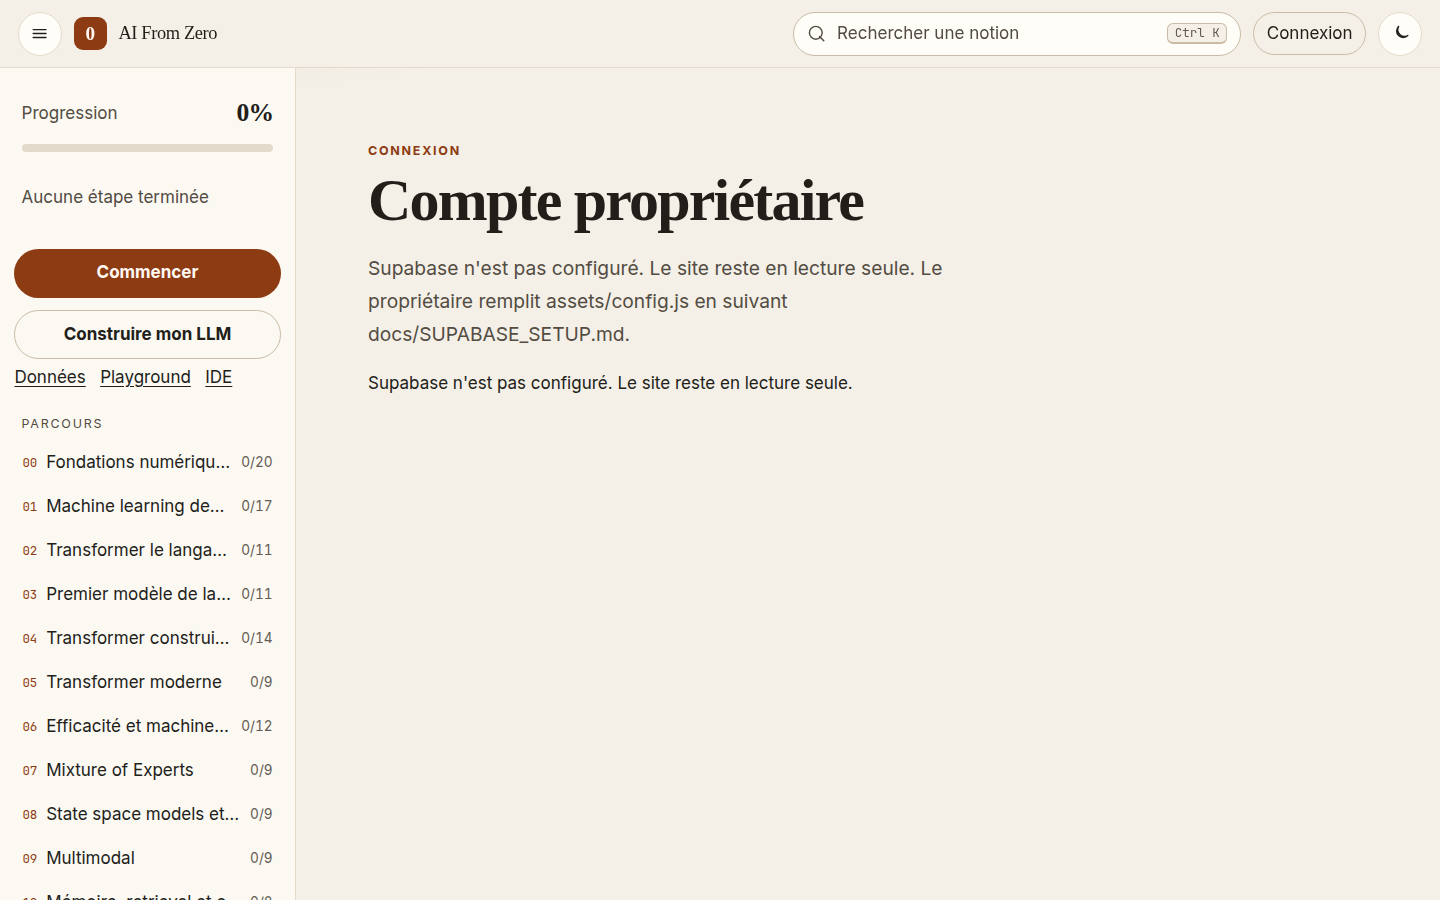
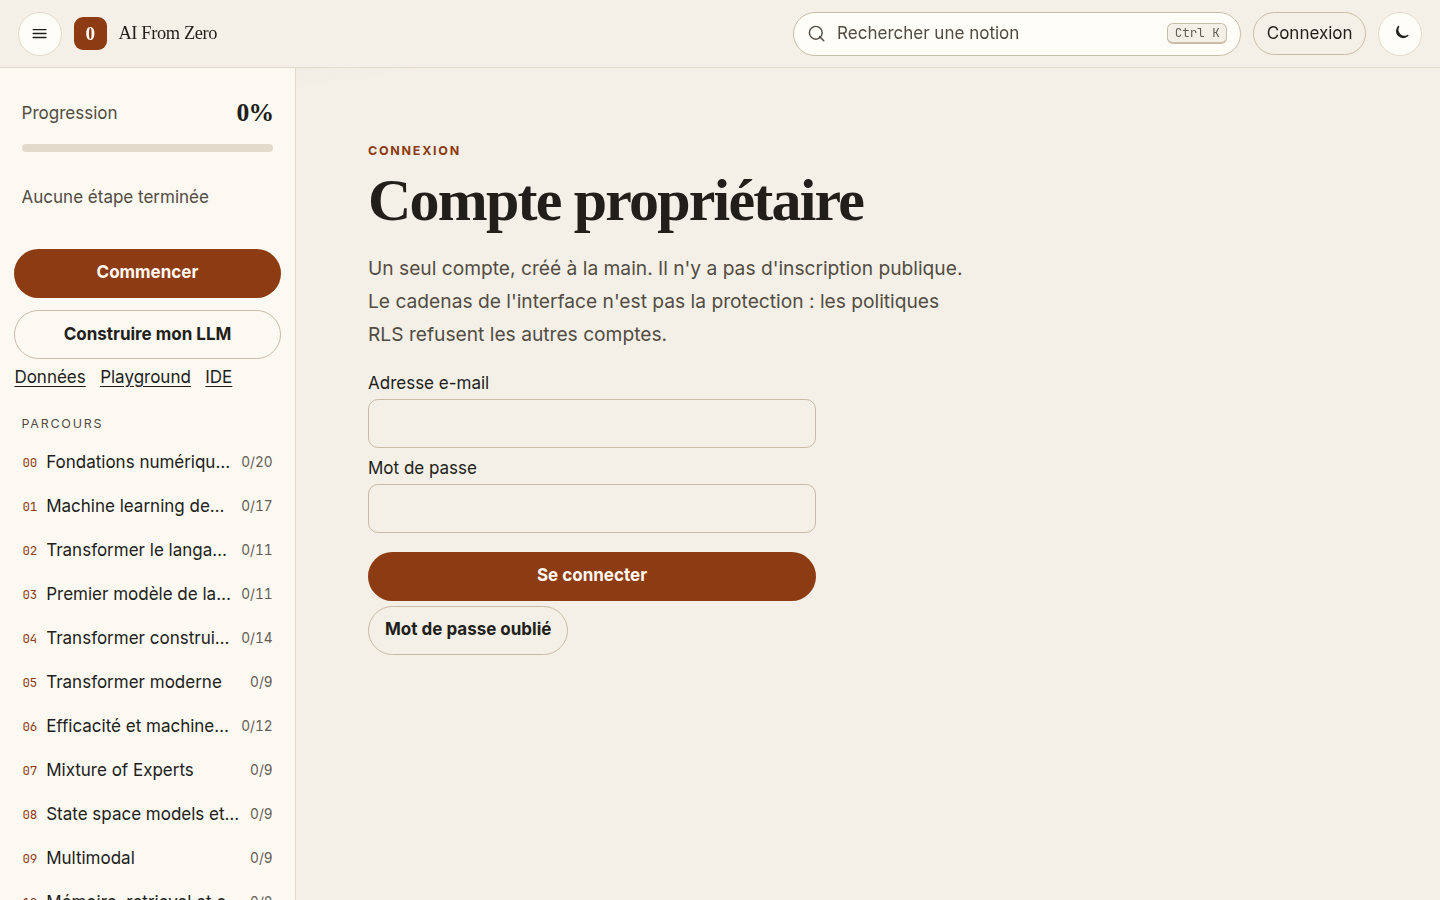
Wire the site to the live Supabase project (#4)
* Wire the site to the live owner Supabase project.

Publish the public URL, anon key, and owner id, pin is_owner() to an empty search_path, and keep anonymous page loads from calling Supabase so tests and Lighthouse stay offline.

* Show the configured owner login form on the connexion screenshot.

---------

Changed region(s): [[0.25, 0.28, 0.6562, 0.4356], [0.25, 0.5911, 0.5938, 0.7156], [0.25, 0.4978, 0.3438, 0.5289]]

diff --git a/tests/js/auth.test.js b/tests/js/auth.test.js
@@ -1,0 +1,40 @@
+import assert from "node:assert/strict";
+import test from "node:test";
+
+import { publicConfig, shouldOpenAuthClient } from "../../assets/js/auth.js";
+
+function storageOf(keys) {
+  return {
+    length: keys.length,
+    key(index) {
+      return keys[index] ?? null;
+    },
+  };
+}
+
+const config = publicConfig();
+
+test("un visiteur sans session n'ouvre pas le client Supabase", () => {
+  assert.equal(config.url, "https://qffcqvwndnpdbrmqbjpz.supabase.co");
+  assert.equal(config.ownerId, "b339f605-c00c-456c-a68f-d273969f086d");
+  assert.equal(config.anonKey.includes("service_role"), false);
+  assert.ok(config.anonKey.length >= 20);
+  const storage = storageOf(["afz-theme", "afz-progress"]);
+  assert.equal(shouldOpenAuthClient(config, "http://127.0.0.1:4173/#/connexion", storage), false);
+  assert.equal(shouldOpenAuthClient(config, "http://127.0.0.1:4173/#/lecon/1.6", storage), false);
+});
+
+test("une session stockée ou un retour Auth ouvre le client", () => {
+  const ref = "sb-qffcqvwndnpdbrmqbjpz-auth-token";
+  assert.equal(shouldOpenAuthClient(config, "http://127.0.0.1:4173/#/", storageOf([ref])), true);
+  assert.equal(
+    shouldOpenAuthClient(config, "http://127.0.0.1:4173/#/", storageOf(["sb-qffcqvwndnpdbrmqbjpz-auth-token-code-verifier"])),
+    true,
+  );
+  assert.equal(shouldOpenAuthClient(config, "http://127.0.0.1:4173/#/", storageOf(["sb-autre-auth-token"])), false);
+  assert.equal(
+    shouldOpenAuthClient(config, "https://sk34pk25.github.io/ai-from-zero/#access_token=jeton&type=recovery", storageOf([])),
+    true,
+  );
+  assert.equal(shouldOpenAuthClient(config, "https://sk34pk25.github.io/ai-from-zero/?code=abc", storageOf([])), true);
+});

diff --git a/assets/js/auth.js b/assets/js/auth.js
@@ -26,6 +26,35 @@ export function isConfigured(config = publicConfig()) {
   return config.url.startsWith("https://") && config.anonKey.length >= 20 && config.ownerId.length >= 8;
 }
 
+const AUTH_CALLBACK = ["access_token", "refresh_token", "error", "error_description", "error_code", "code"];
+
+/** Vrai seulement si une session, un vérificateur PKCE ou un retour Auth
+ * est déjà là. Un visiteur anonyme ne charge pas le client : le bundle
+ * pèse trop lourd pour Lighthouse, et l'initialisation irait interroger
+ * Supabase à chaque page. */
+export function shouldOpenAuthClient(config, href, storage) {
+  try {
+    const url = new URL(href);
+    const hash = url.hash.startsWith("#") ? url.hash.slice(1) : "";
+    const hashParams = new URLSearchParams(hash.includes("=") ? hash : "");
+    if (AUTH_CALLBACK.some((name) => url.searchParams.has(name) || hashParams.has(name))) return true;
+    const ref = new URL(config.url).hostname.split(".")[0];
+    const prefix = `sb-${ref}-`;
+    for (let index = 0; index < storage.length; index += 1) {
+      const key = storage.key(index);
+      if (key && key.startsWith(prefix)) return true;
+    }
+    return false;
+  } catch {
+    return true;
+  }
+}
+
+function hasAuthWork() {
+  if (typeof window === "undefined" || !window.localStorage) return false;
+  return shouldOpenAuthClient(publicConfig(), window.location.href, window.localStorage);
+}
+
 export function currentUser() {
   return user;
 }
@@ -62,7 +91,7 @@ async function clientOf() {
 }
 
 export async function restoreSession() {
-  if (!isConfigured()) {
+  if (!isConfigured() || !hasAuthWork()) {
     user = null;
     return null;
   }

diff --git a/tests/e2e/features.spec.js b/tests/e2e/features.spec.js
@@ -4,6 +4,21 @@ import { expect, test } from "@playwright/test";
 import { installOwner, OWNER_ID, signInAs } from "./session.js";
 
 test("le visiteur reste en lecture seule", async ({ page }) => {
+  const hits = [];
+  const errors = [];
+  page.on("request", (request) => {
+    if (request.url().includes("supabase.co")) hits.push(request.url());
+  });
+  page.on("pageerror", (error) => errors.push(error.message));
+  page.on("console", (message) => {
+    if (message.type() === "error") errors.push(message.text());
+  });
+  await page.goto("/#/connexion");
+  await expect(page.locator("h1")).toHaveText("Compte propriétaire");
+  await expect(page.locator("#login-email")).toBeVisible();
+  await expect(page.locator("#login-password")).toBeVisible();
+  await expect(page.getByRole("button", { name: "Se connecter" })).toBeVisible();
+  await expect(page.getByRole("button", { name: "Mot de passe oublié" })).toBeVisible();
   await page.goto("/#/lecon/1.6");
   await expect(page.locator(".lock-note")).toContainText("Réservé au propriétaire");
   await expect(page.locator("[data-choice='0']")).toBeDisabled();
@@ -18,6 +33,8 @@ test("le visiteur reste en lecture seule", async ({ page }) => {
   }));
   expect(storage.keys.filter((key) => key !== "afz-theme")).toEqual([]);
   expect(storage.databases).not.toContain("afz-ide");
+  expect(hits).toEqual([]);
+  expect(errors).toEqual([]);
 });
 
 test("un autre compte ne déverrouille pas, le propriétaire oui", async ({ page }) => {

diff --git a/assets/config.js b/assets/config.js
@@ -1,9 +1,9 @@
 /** Configuration publique Supabase.
  *
  * La clé anon est publique par conception. Ne jamais mettre ici la clé
- * service_role, un mot de passe, ou un jeton. Tant que ces trois valeurs
- * restent vides, le site fonctionne en lecture seule.
+ * service_role, un mot de passe, ou un jeton. Si l'une de ces trois
+ * valeurs est vide, le site fonctionne en lecture seule.
  */
-export const SUPABASE_URL = "";
-export const SUPABASE_ANON_KEY = "";
-export const OWNER_ID = "";
+export const SUPABASE_URL = "https://qffcqvwndnpdbrmqbjpz.supabase.co";
+export const SUPABASE_ANON_KEY = "eyJhbGciOiJIUzI1NiIsInR5cCI6IkpXVCJ9.eyJpc3MiOiJzdXBhYmFzZSIsInJlZiI6InFmZmNxdnduZG5wZGJybXFianB6Iiwicm9sZSI6ImFub24iLCJpYXQiOjE3OTI5NTI3OTcsImV4cCI6MjEwODUyODc5N30.PCodCBH8SMYtjsIL7i5S0CtR0eDHKbuvkZRl4Jwdb14";
+export const OWNER_ID = "b339f605-c00c-456c-a68f-d273969f086d";

diff --git a/tests/test_schema.py b/tests/test_schema.py
@@ -11,6 +11,7 @@ def test_rls_covers_every_owner_table():
     tables = ["ide_files", "progress", "quiz_results", "training_runs", "training_plans"]
     assert "auth.uid()" in SCHEMA
     assert "service_role" not in SCHEMA
+    assert "set search_path = ''" in SCHEMA
     assert "00000000-0000-0000-0000-000000000000" in SCHEMA
     for table in tables:
         assert f"alter table public.{table} enable row level security;" in SCHEMA

diff --git a/docs/SUPABASE_SETUP.md b/docs/SUPABASE_SETUP.md
@@ -1,5 +1,7 @@
 # Brancher le compte propriétaire
 
+Le projet `qffcqvwndnpdbrmqbjpz` est configuré. `assets/config.js` contient l'URL `https://qffcqvwndnpdbrmqbjpz.supabase.co`, la clé anon publique et l'UUID du propriétaire. Les inscriptions sont désactivées, le compte propriétaire existe, et l'URL du site ainsi que les redirections autorisées pointent vers `https://sk34pk25.github.io/ai-from-zero/`. Le schéma est appliqué, RLS compris. En ligne, `is_owner()` compare `auth.uid()` à cet UUID et fixe `search_path` à une chaîne vide. Le fichier du dépôt garde l'UUID nul : ne pas le réexécuter tel quel sur ce projet.
+
 Le site reste lisible sans compte. L'IDE, les exercices, les quiz, la progression et le plan de données ne s'enregistrent que pour un utilisateur : celui dont l'identifiant est copié dans `assets/config.js`.
 
 Le cadenas affiché dans les pages empêche un visiteur de lancer ces actions dans son navigateur. Il ne protège pas le serveur. La protection des lignes est dans `supabase/schema.sql` : `auth.uid()` doit être cet identifiant.
@@ -17,8 +19,8 @@ Aucun mot de passe, aucune clé `service_role`, ne va dans le dépôt.
 ## Appliquer les tables
 
 1. Ouvre `supabase/schema.sql`.
-2. Remplace `00000000-0000-0000-0000-000000000000` par l'UUID copié. Il apparaît dans la fonction `is_owner`.
-3. Dans le projet Supabase, ouvre le SQL Editor, colle le fichier, exécute-le.
+2. Remplace `00000000-0000-0000-0000-000000000000` par l'UUID copié. Il apparaît dans la fonction `is_owner`. Le dépôt garde cet UUID nul, et la fonction y déclare `set search_path = ''`.
+3. Dans le projet Supabase, ouvre le SQL Editor, colle le fichier, exécute-le. Le projet déjà créé a cette étape derrière lui : réexécuter le fichier du dépôt y écraserait l'UUID réel.
 4. Vérifie que les tables `ide_files`, `progress`, `quiz_results`, `training_runs` et `training_plans` existent, et que RLS est activé.
 
 Un autre compte connecté, ou un visiteur anonyme, ne peut ni lire ni écrire ces tables.
@@ -35,7 +37,7 @@ export const SUPABASE_ANON_KEY = "la clé anon";
 export const OWNER_ID = "l'UUID de l'utilisateur";
 ```
 
-Tant que ces trois chaînes sont vides, la page Connexion explique que le site reste en lecture seule.
+Si l'une de ces trois chaînes est vide, la page Connexion explique que le site reste en lecture seule. Elles sont renseignées pour le site publié.
 
 ## Mot de passe oublié
 
